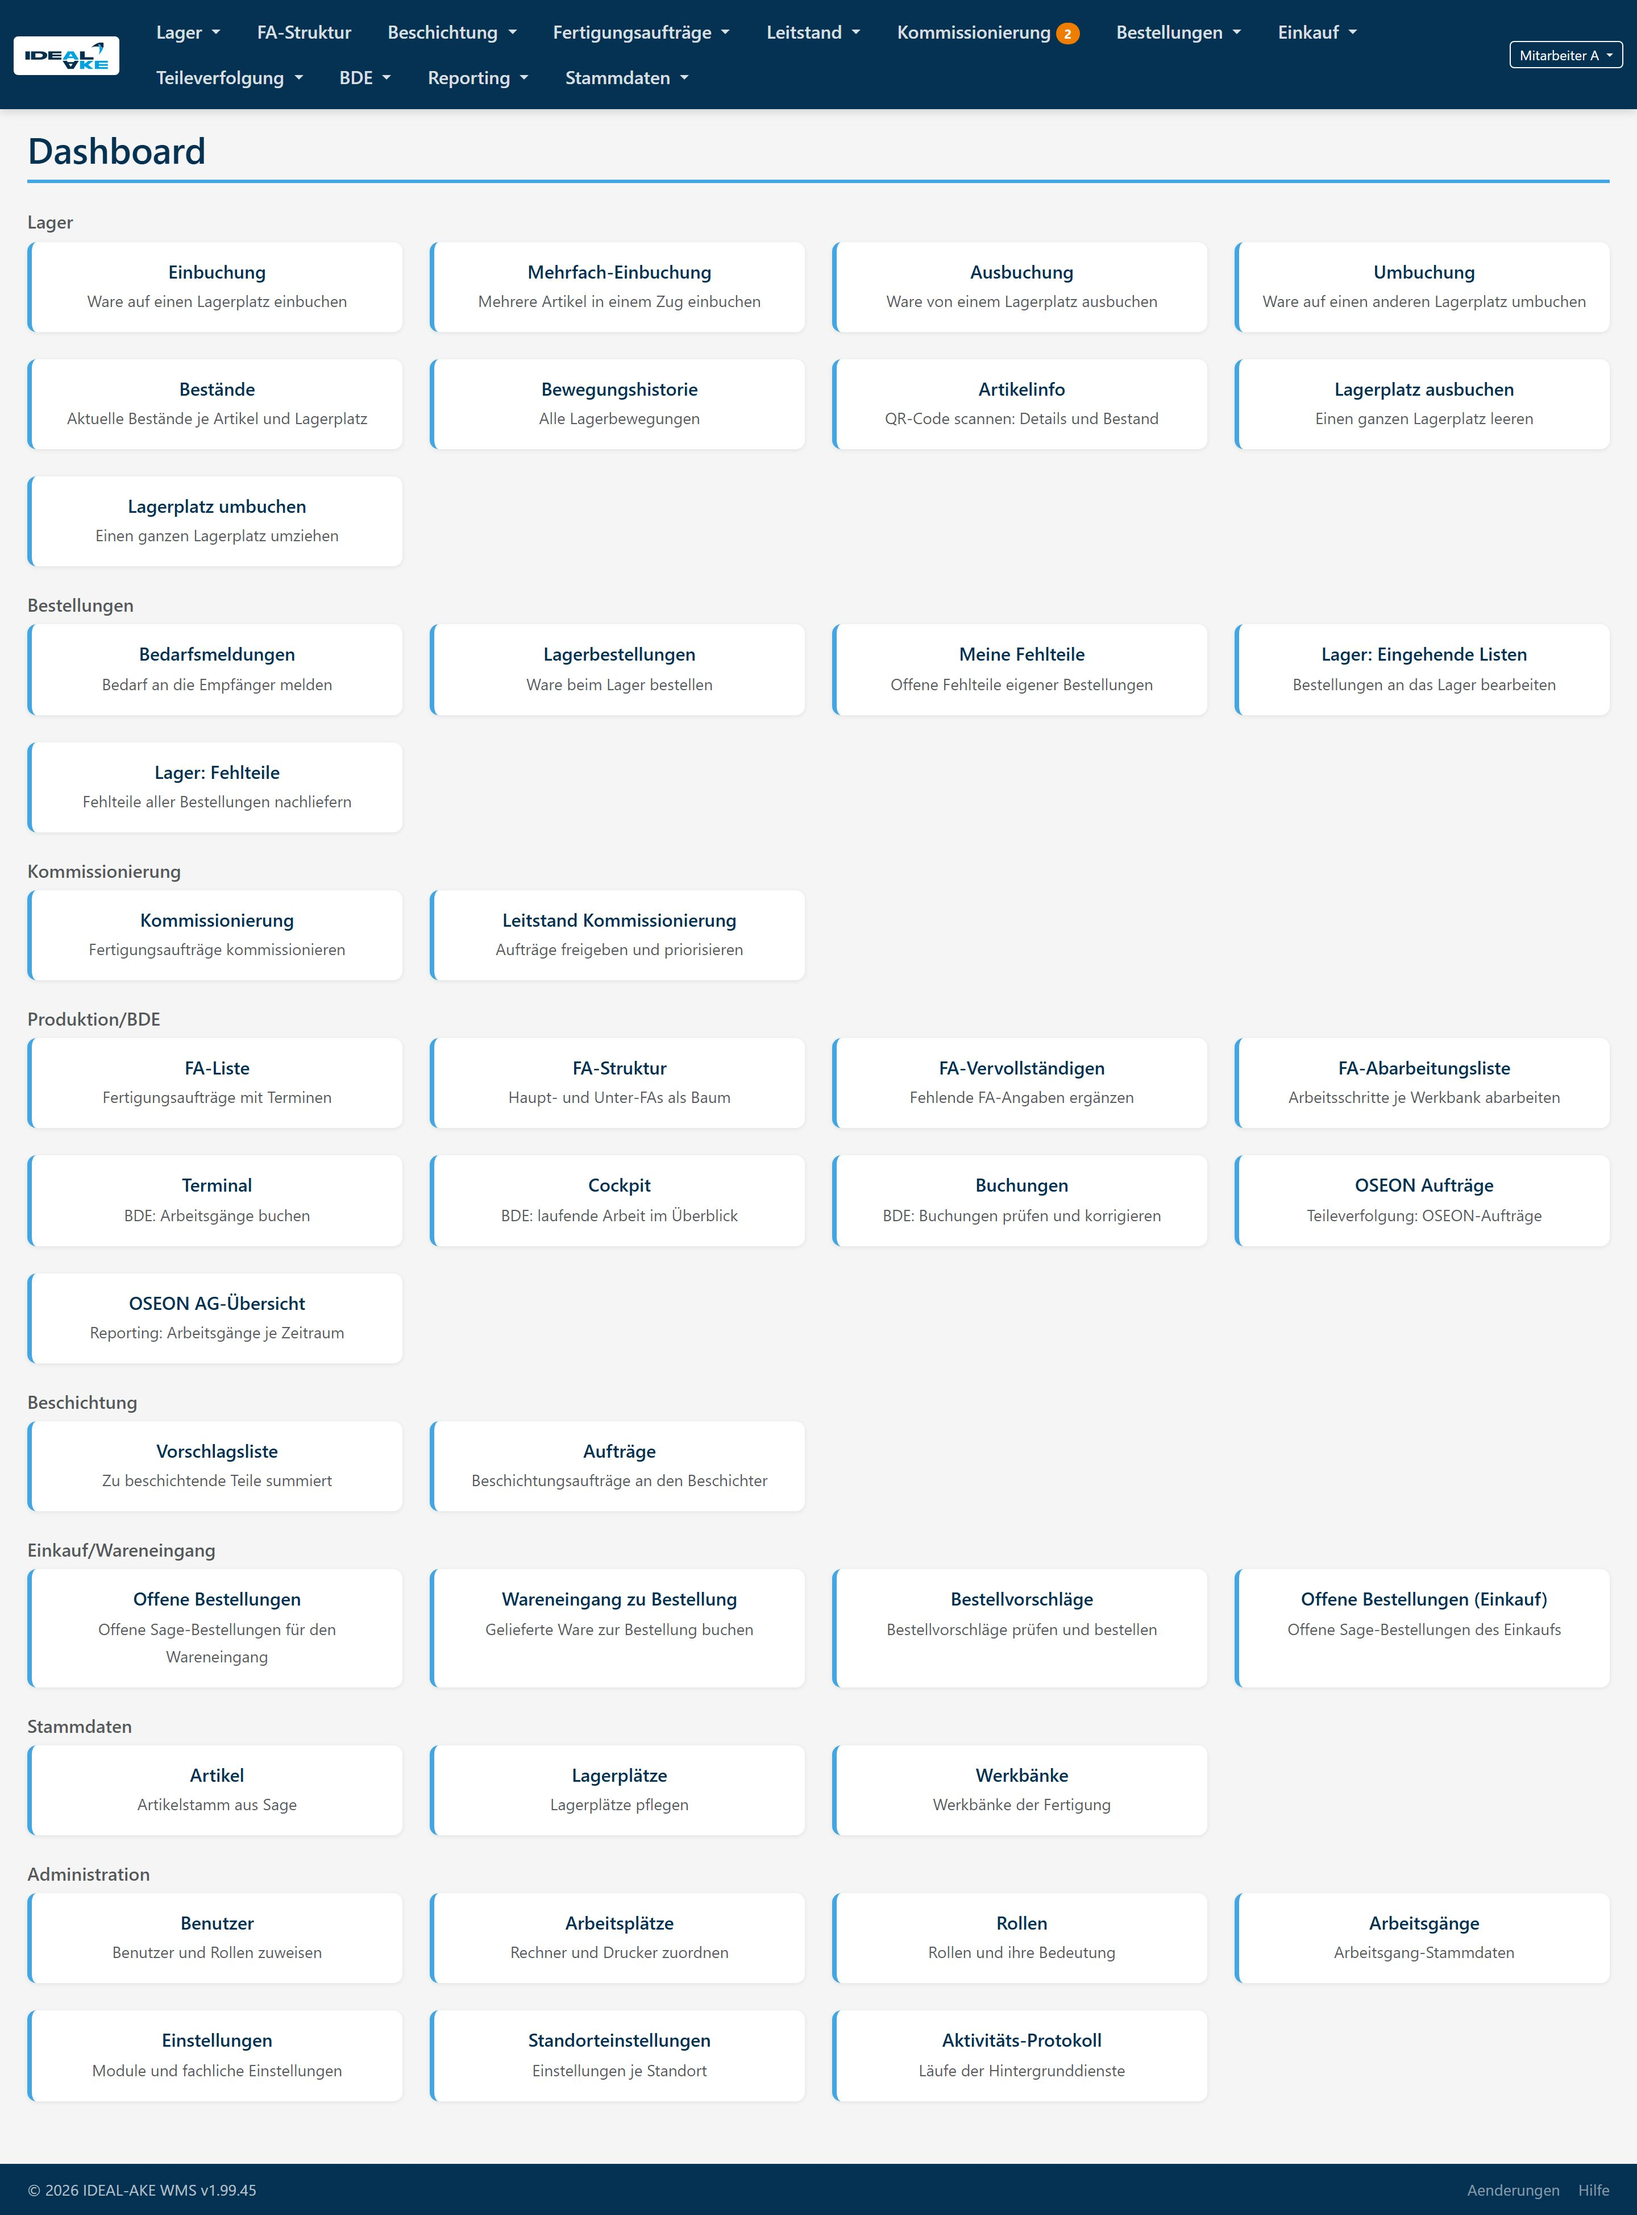
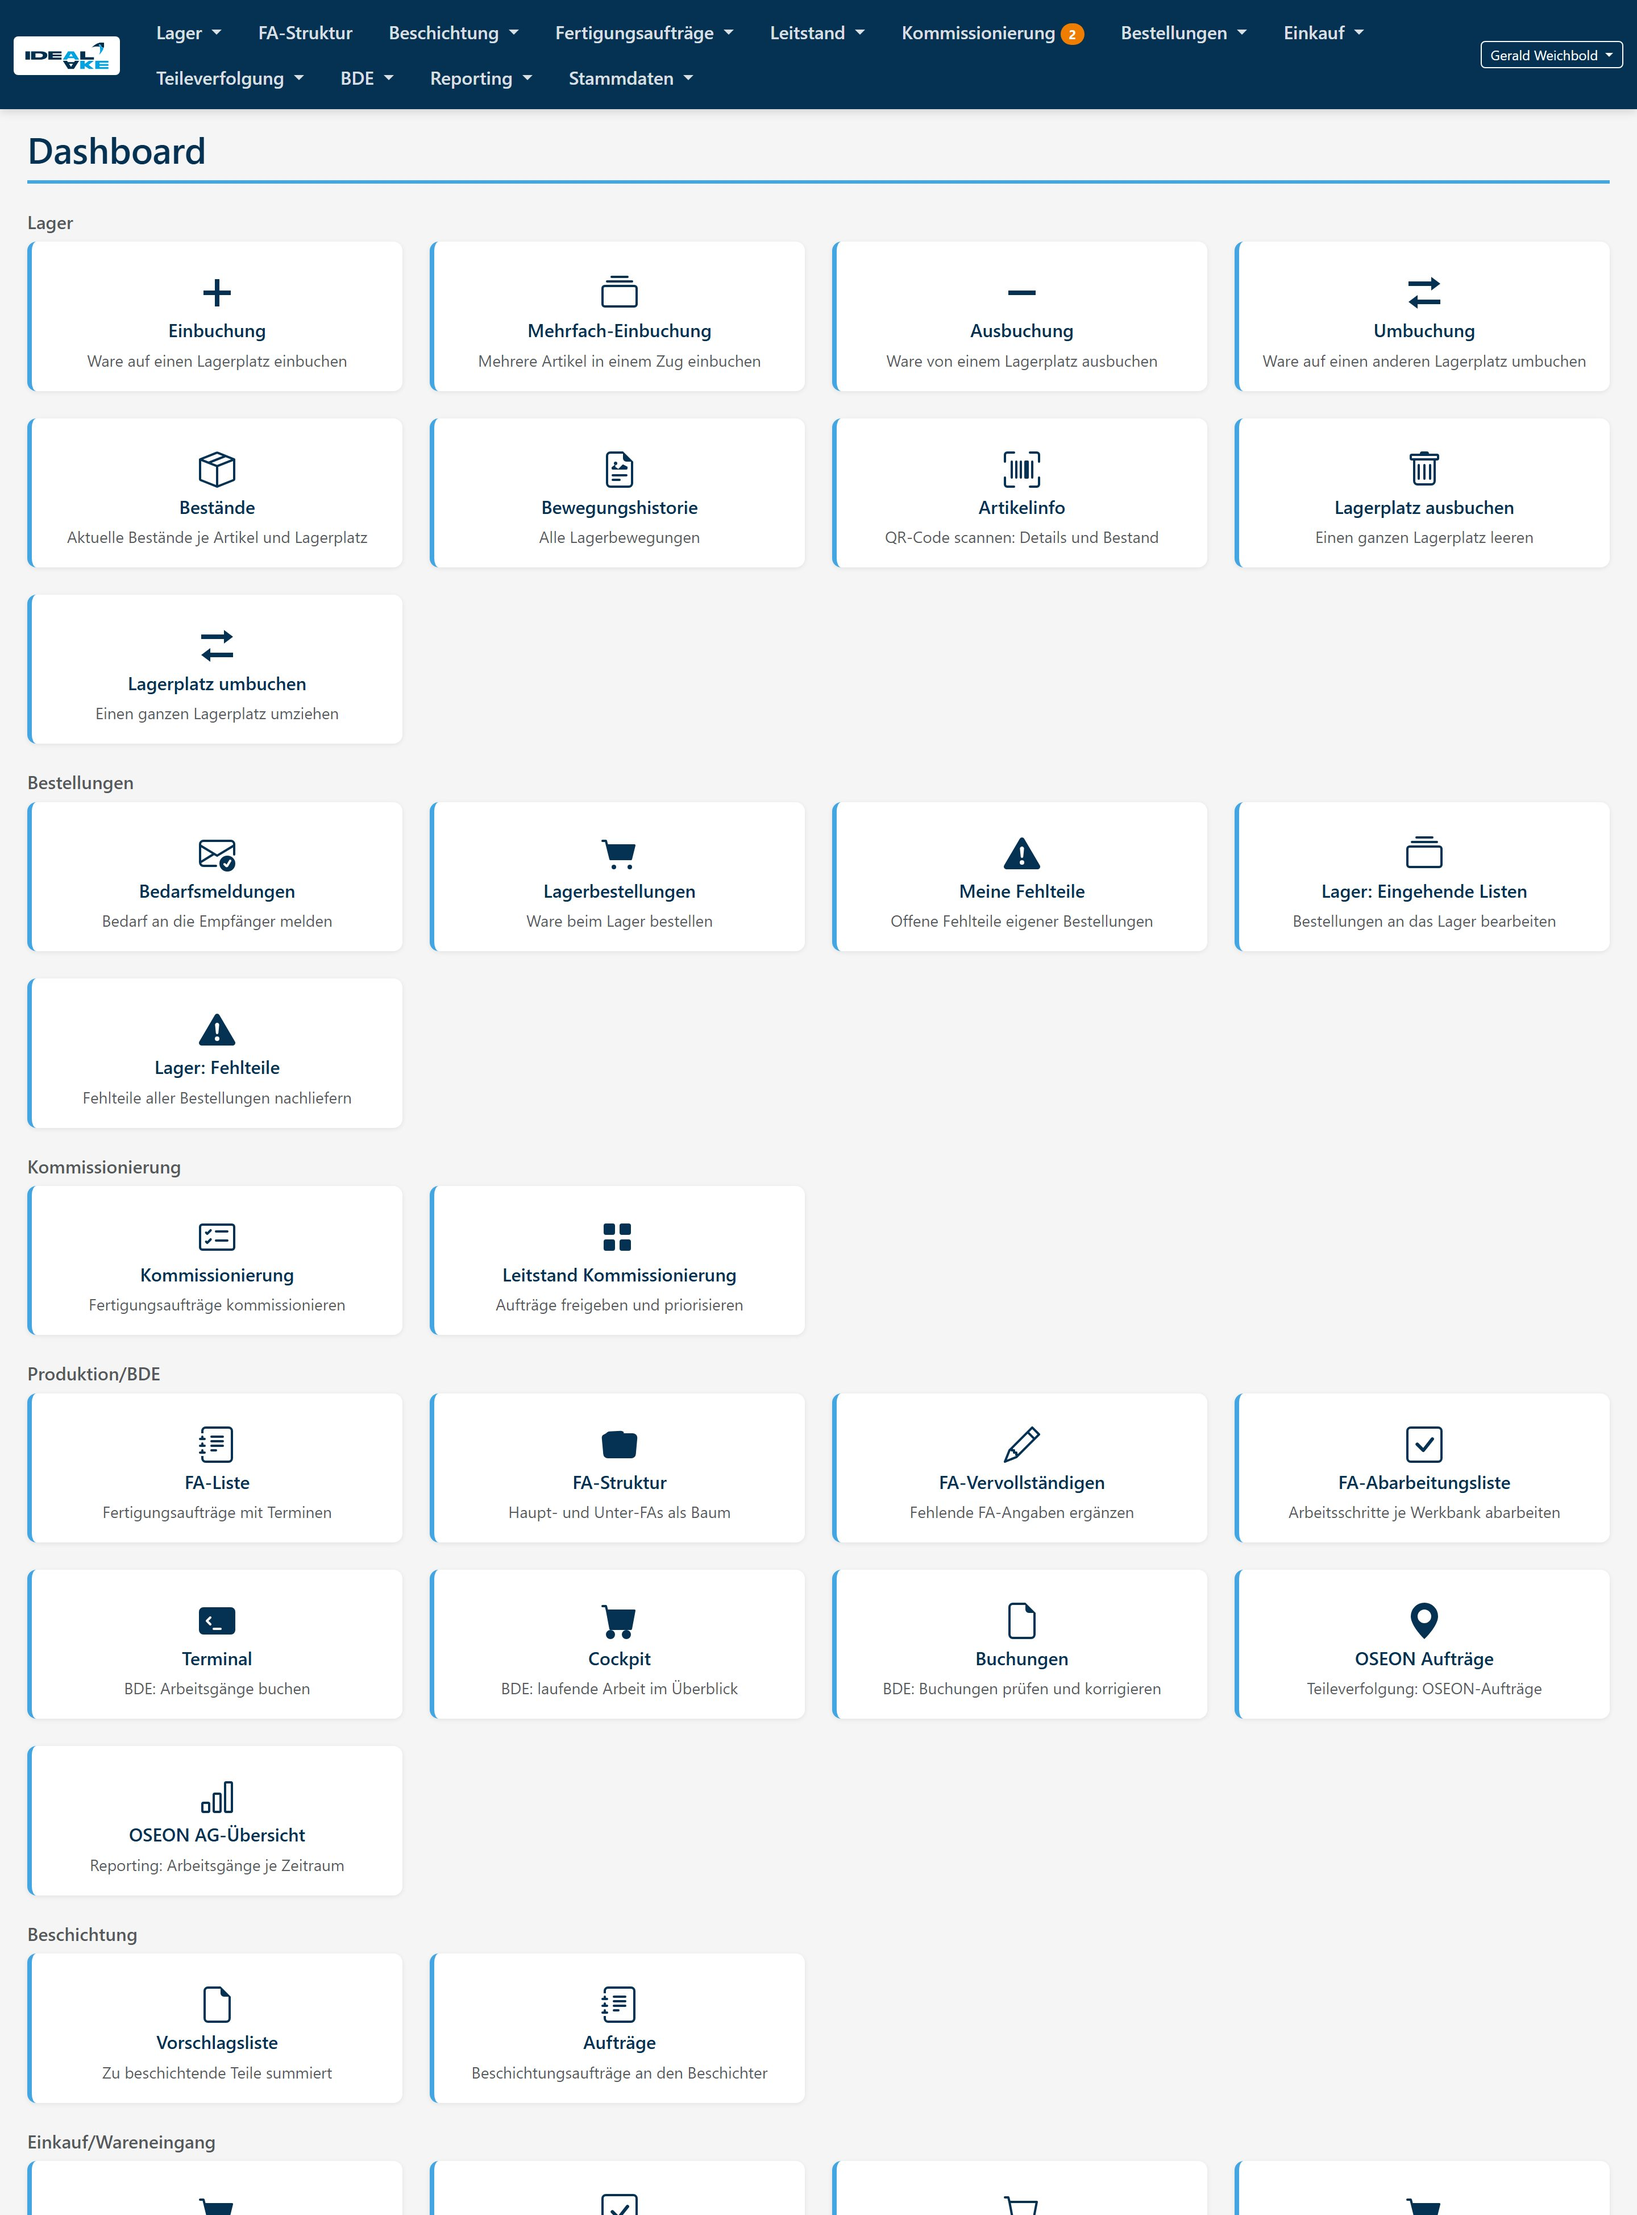
docs(v1.99.46): Kapitel 18 Fotos 18-01/18-02/18-05 mit Kachel-Symbolen (DEV)
Claude-Session: https://claude.ai/code/session_012YfKaZHJwFA1HZ7eGtrZTd

diff --git a/docs/anwender/18-startseite-und-menue.md b/docs/anwender/18-startseite-und-menue.md
@@ -1,6 +1,6 @@
 # 18 Startseite und Menü
 
-Stand: Version **1.99.46** (20.11.2026). Bilder: Testsysteme AKE (18-01) und IDEAL (18-02 bis 18-05).
+Stand: Version **1.99.46** (20.11.2026). Bilder: 18-01 (AKE), 18-02 und 18-05 (IDEAL) aus den DEV-Systemen mit 1.99.46; 18-03 und 18-04 Testsysteme mit 1.99.45 (ohne Symbole, Inhalt sonst gleich).
 
 ## Zweck
 
